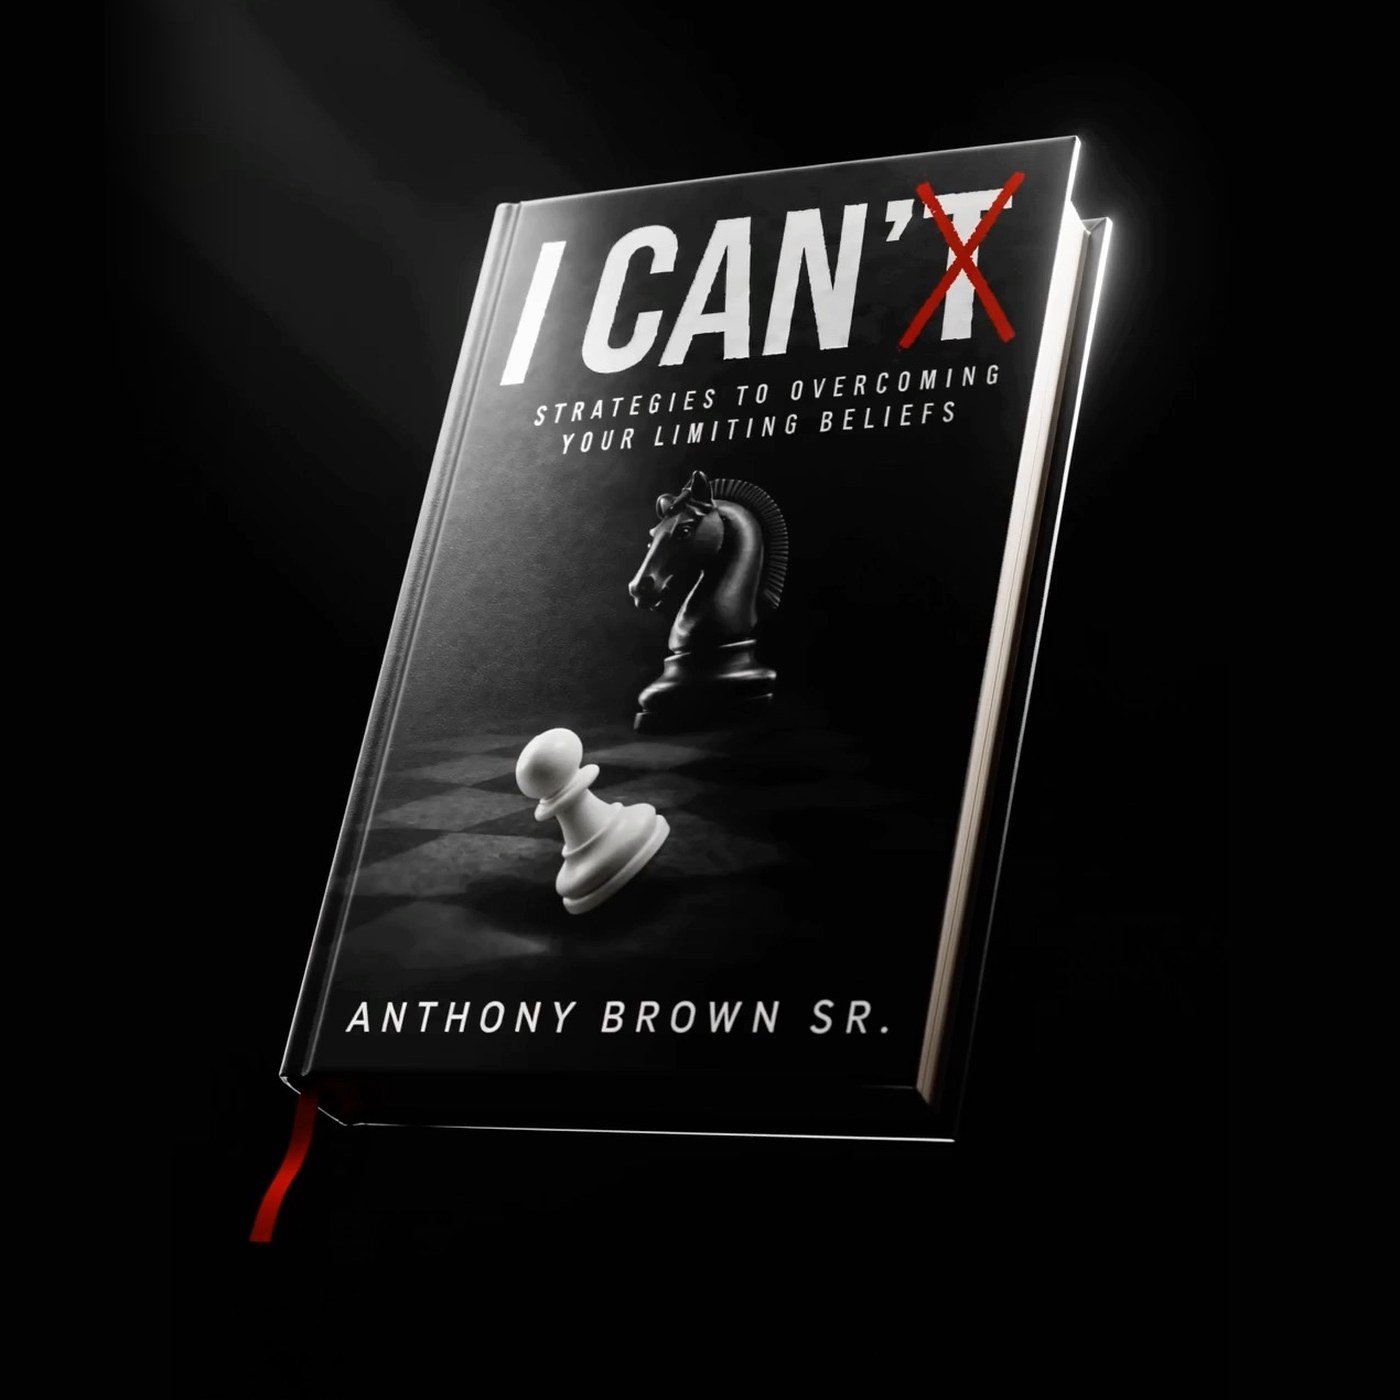
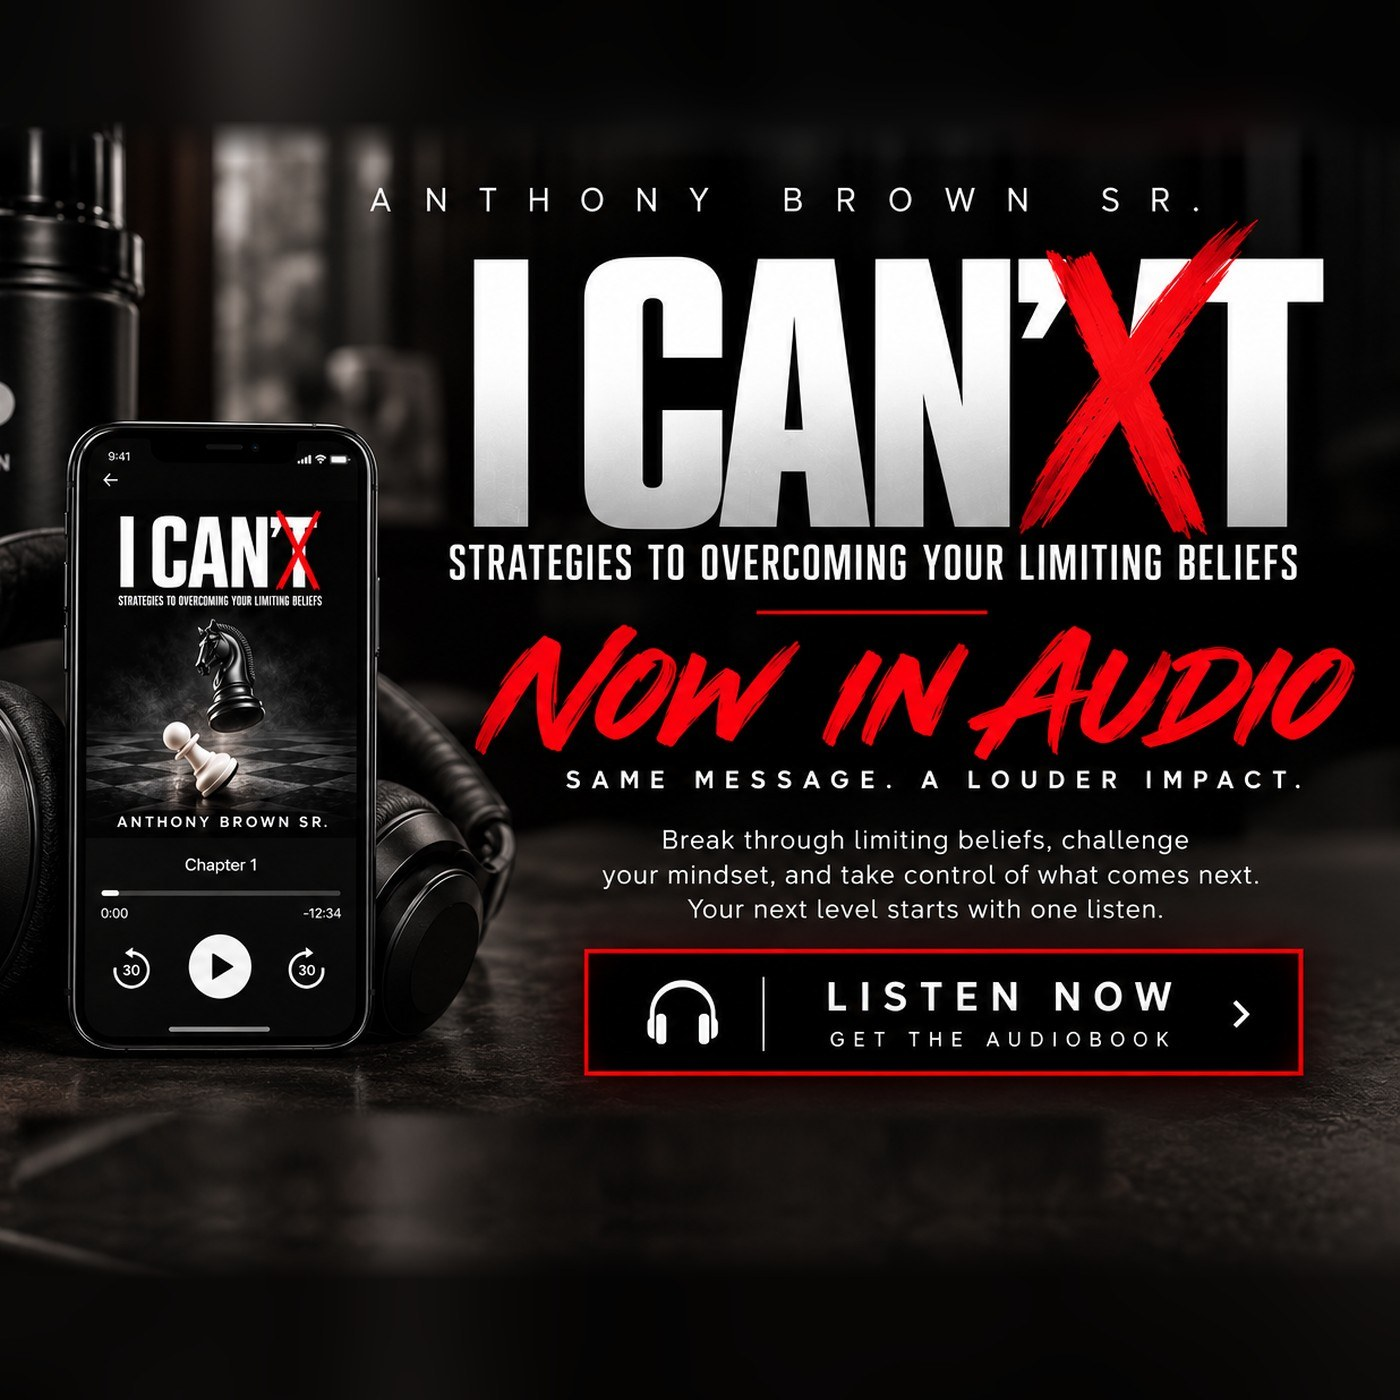
Audiobook: use the "Now in Audio" artwork for the card, cover and link preview
Swaps the paperback mockup for Anthony's audiobook artwork, with the
Audible, Apple Books, Spotify and Google Play logos taken out (it is
sold only on the site). The homepage card shows it whole, the square
cover (1400x1400) frames it for the player, library and podcast apps,
and links to /listen preview with it.

Claude-Session: https://claude.ai/code/session_01Ny65nN4JwyKm6RNqvSPEF5

diff --git a/public/listen.html b/public/listen.html
@@ -16,12 +16,12 @@
   <meta property="og:title" content="I Can't: Strategies To Overcoming Your Limiting Beliefs (Audiobook)">
   <meta property="og:description" content="Listen free to the Introduction, then get the full audiobook by Anthony Brown Sr.">
   <meta property="og:type" content="website">
-  <meta property="og:image" content="https://the1pnation.com/assets/og-default.jpg">
+  <meta property="og:image" content="https://the1pnation.com/assets/i-cant-audio-share.jpg">
   <meta property="og:image:width" content="1200">
-  <meta property="og:image:height" content="630">
-  <meta property="og:image:alt" content="The One Percent Nation">
+  <meta property="og:image:height" content="628">
+  <meta property="og:image:alt" content="I Can't by Anthony Brown Sr., now in audio">
   <meta property="og:site_name" content="The One Percent Nation">
-  <meta name="twitter:image" content="https://the1pnation.com/assets/og-default.jpg">
+  <meta name="twitter:image" content="https://the1pnation.com/assets/i-cant-audio-share.jpg">
   <meta name="twitter:card" content="summary_large_image">
   <meta name="theme-color" content="#000000">
   <!-- Its own manifest, so "Add to Home Screen" opens the player, not the dashboard. -->

diff --git a/public/assets/site.css b/public/assets/site.css
@@ -318,12 +318,14 @@ main, footer { position: relative; z-index: 1; }
 .door-coach .card-label, .door-audio .card-label { color: var(--red); }
 /* On a phone the audiobook sits between membership and certification, in
    source order. Side by side, a third card in the right column would stretch
-   the corporate photo, so it moves to its own full-width row, art on the left. */
+   the corporate photo, so it moves to its own full-width row, art on the left.
+   The art carries its own headline, so it is shown whole, never cropped. */
 @media (min-width: 861px) {
   .door-stack { display: contents; }
   .door-org { grid-column: 1; grid-row: 1 / span 2; }
   .door-audio { grid-column: 1 / -1; grid-row: 3; flex-direction: row; }
-  .door-audio .door-photo { flex: 0 0 42%; aspect-ratio: auto; min-height: 320px; border-bottom: 0; border-right: 1px solid var(--line); }
+  .door-audio .door-photo { flex: 0 0 55%; aspect-ratio: auto; border-bottom: 0; border-right: 1px solid var(--line); }
+  .door-audio .door-photo img { object-fit: contain; }
 }
 
 /* ===== Method steps ===== */

diff --git a/public/index.html b/public/index.html
@@ -214,7 +214,7 @@
           <div class="small-muted">Already a member? <a href="/login.html">Sign in to your portal</a></div>
         </article>
         <article class="card door-audio tilt">
-          <a class="door-photo" href="/listen?book=i-cant-audio" tabindex="-1" aria-hidden="true"><img src="/assets/i-cant-audio-card.jpg" alt="" width="1200" height="800" loading="lazy"></a>
+          <a class="door-photo" href="/listen?book=i-cant-audio" tabindex="-1" aria-hidden="true"><img src="/assets/i-cant-audio-card.jpg" alt="" width="1536" height="1024" loading="lazy"></a>
           <div class="door-body">
             <span class="card-label">The Audiobook</span>
             <h3>Listen anywhere.</h3>
